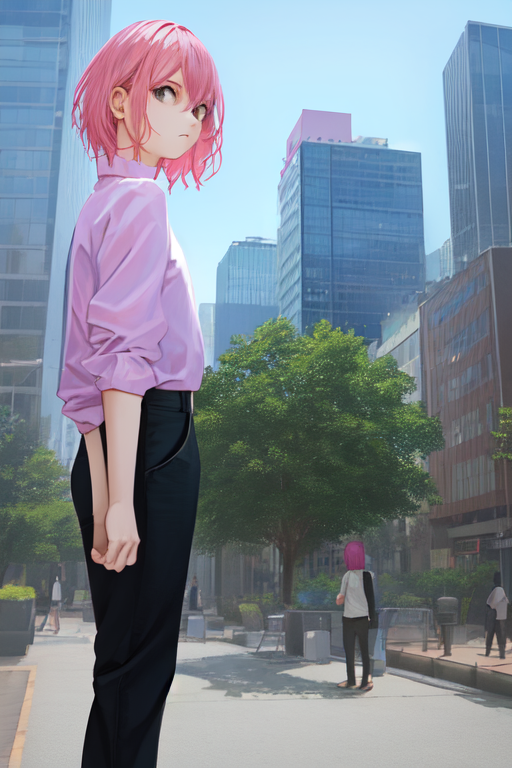
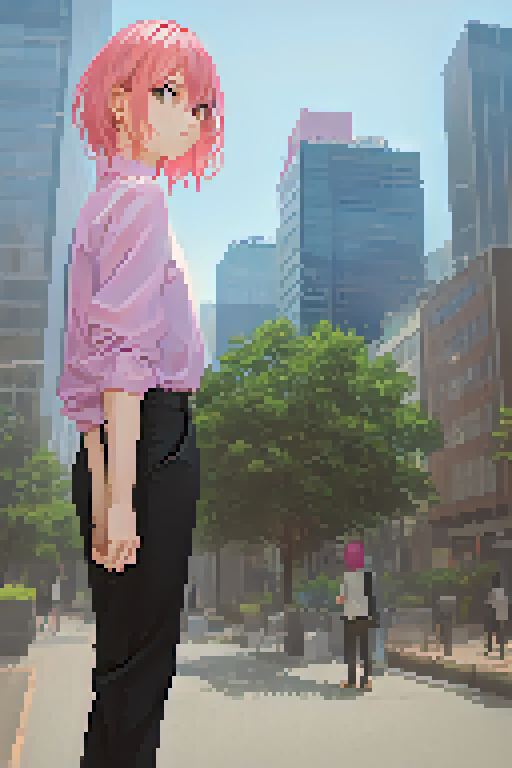
Pixelization 마크다운 업데이트
파일 이름 수정

diff --git a/stable-diffusion/Pixelization/Pixelization.md b/stable-diffusion/Pixelization/Pixelization.md
@@ -1,0 +1,13 @@
+# Pixelization
+
+![image](https://github.com/Yoheigh/test-unity3d-project/blob/main/stable-diffusion/Pixelization/RF.png?raw=true)
+
+원본 파일
+
+---
+
+![image](https://github.com/Yoheigh/test-unity3d-project/blob/main/stable-diffusion/Pixelization/Pixel.png?raw=true)
+
+# 결과 파일
+
+> pink hair, modern, city, standing, shirts, from side, looking at viewer
